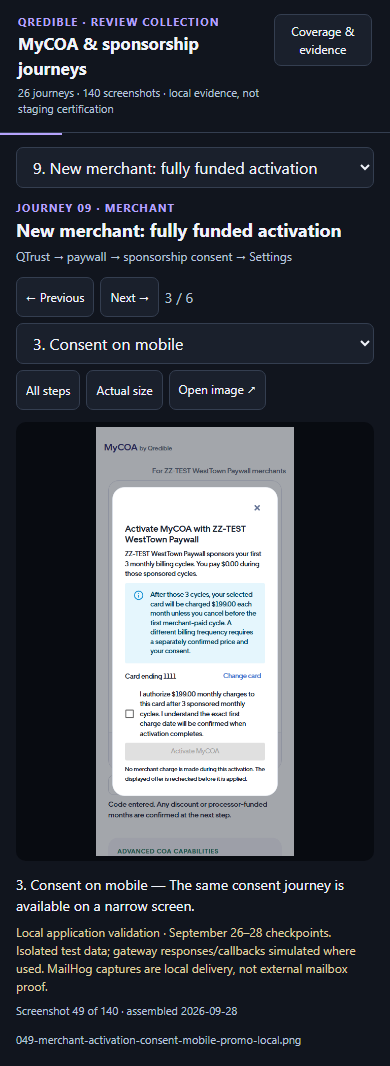
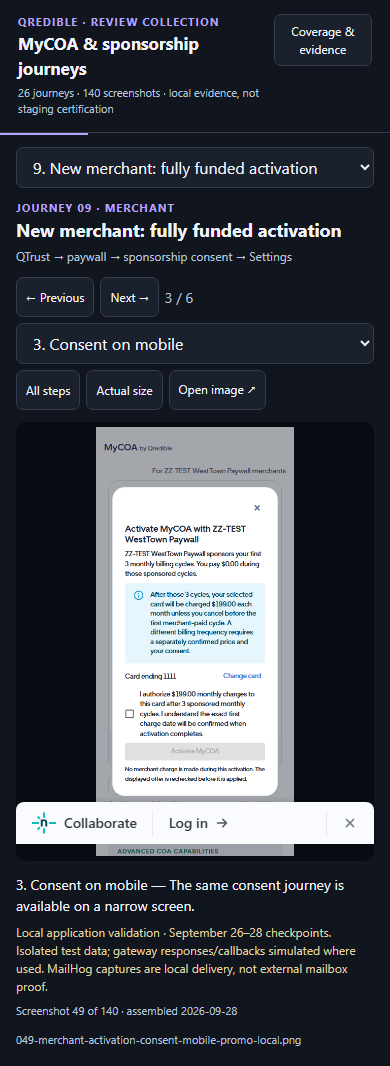
Record Netlify gallery preview validation

Changed region(s): [[0.0308, 0.743, 0.9846, 0.8049]]

diff --git a/validation/mycoa-gallery/README.md b/validation/mycoa-gallery/README.md
@@ -27,6 +27,7 @@ node validation/mycoa-gallery/validate.cjs
 The validator requires Playwright and Chromium installed. If Playwright is not
 available through Node's normal module resolution, set `PLAYWRIGHT_MODULE` to
 its module path. `CHROMIUM_PATH` can select a specific Chromium binary.
-`result.json` and the two PNGs in this folder record the local full-site
-route run on September 29, 2026. This validates gallery integrity and
+`result.json` and the three PNGs in this folder record the deployed Netlify
+PR-preview route run on September 29, 2026. The same checks passed first
+against the local full-site route. This validates gallery integrity and
 navigation only, not the underlying QTrust/Q-Config product workflows.
